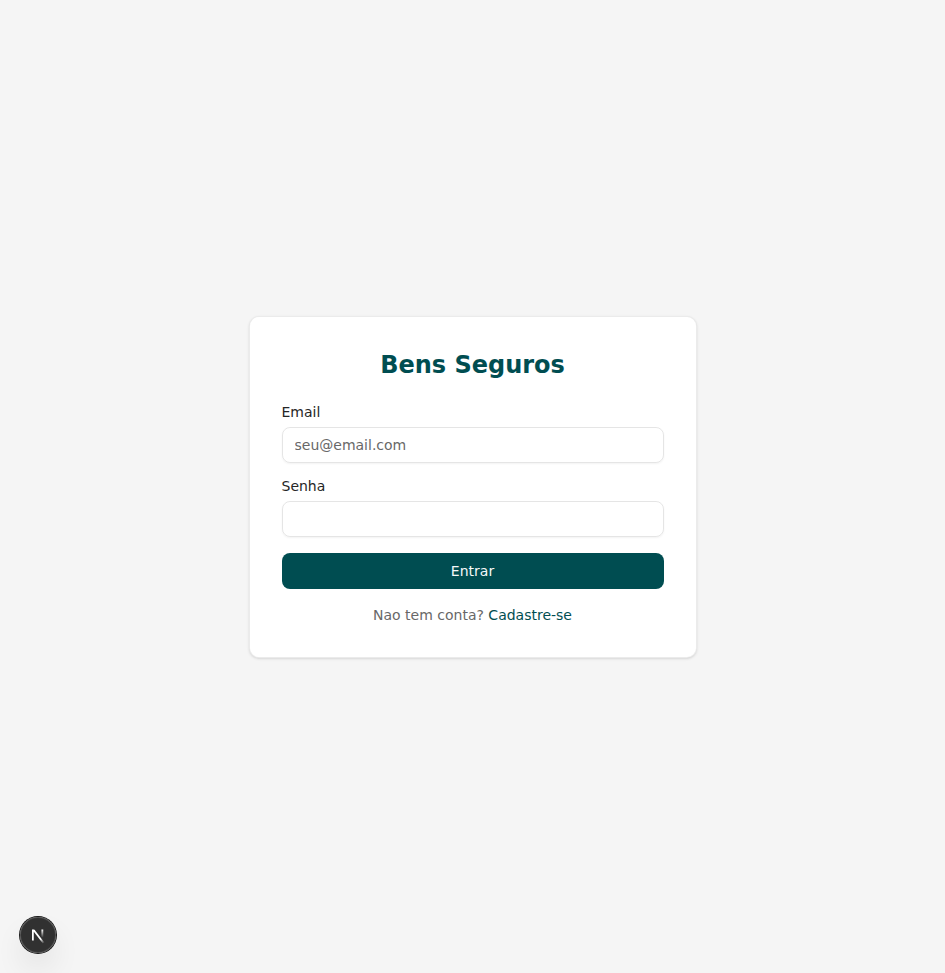
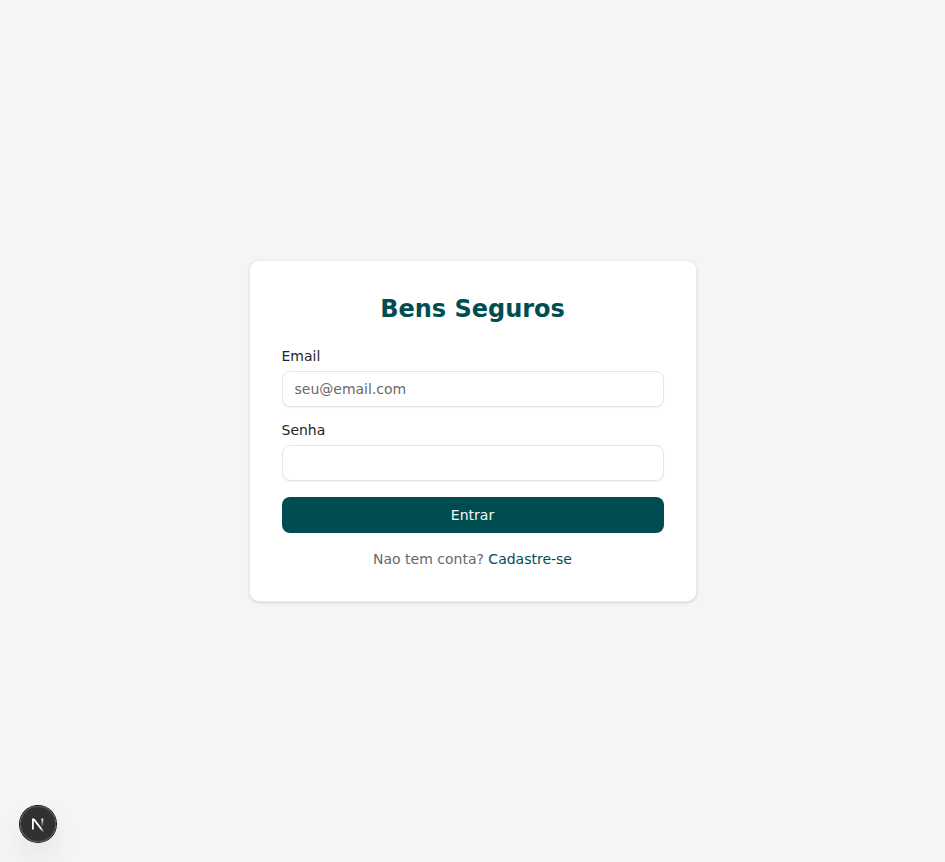
fix: QA bugs - CORS methods, Zod empty date, DELETE content-type
- Add PUT/DELETE to CORS allowed methods
- Handle empty string birthDate in Zod schema (coerce fails on '')
- Remove Content-Type header from DELETE requests (Fastify rejects empty JSON body)
- Add --tsconfig flag to server dev script for tsx decorator support
- Use manual DI factory registration (tsx/esbuild compatibility)
- Add root tsconfig.json with experimentalDecorators

diff --git a/apps/server/src/container-registrations.ts b/apps/server/src/container-registrations.ts
@@ -1,12 +1,59 @@
 import { container } from '@repo/core';
 import { prisma } from '@repo/db';
-import { PrismaClientRepository } from '@repo/core';
-import { PrismaProposalRepository } from '@repo/core';
-import { PrismaPolicyRepository } from '@repo/core';
+import {
+  PrismaClientRepository,
+  PrismaProposalRepository,
+  PrismaPolicyRepository,
+  CreateClient,
+  ListClients,
+  GetClient,
+  UpdateClient,
+  DeleteClient,
+  CreateProposal,
+  AdvanceProposalStage,
+  RevertProposalStage,
+  MarkProposalLost,
+  ListProposals,
+  GetProposal,
+  IssuePolicy,
+  ListPolicies,
+  GetPolicy,
+  CancelPolicy,
+} from '@repo/core';
 
 export function registerDependencies() {
+  const clientRepo = new PrismaClientRepository(prisma);
+  const proposalRepo = new PrismaProposalRepository(prisma);
+  const policyRepo = new PrismaPolicyRepository(prisma);
+
   container.register('PrismaClient', { useValue: prisma });
-  container.register('ClientRepository', { useClass: PrismaClientRepository });
-  container.register('ProposalRepository', { useClass: PrismaProposalRepository });
-  container.register('PolicyRepository', { useClass: PrismaPolicyRepository });
+  container.register('ClientRepository', { useValue: clientRepo });
+  container.register('ProposalRepository', { useValue: proposalRepo });
+  container.register('PolicyRepository', { useValue: policyRepo });
+
+  container.register(CreateClient, { useFactory: () => new CreateClient(clientRepo) });
+  container.register(ListClients, { useFactory: () => new ListClients(clientRepo) });
+  container.register(GetClient, { useFactory: () => new GetClient(clientRepo) });
+  container.register(UpdateClient, { useFactory: () => new UpdateClient(clientRepo) });
+  container.register(DeleteClient, { useFactory: () => new DeleteClient(clientRepo) });
+
+  container.register(CreateProposal, { useFactory: () => new CreateProposal(proposalRepo) });
+  container.register(AdvanceProposalStage, {
+    useFactory: () => new AdvanceProposalStage(proposalRepo),
+  });
+  container.register(RevertProposalStage, {
+    useFactory: () => new RevertProposalStage(proposalRepo),
+  });
+  container.register(MarkProposalLost, {
+    useFactory: () => new MarkProposalLost(proposalRepo),
+  });
+  container.register(ListProposals, { useFactory: () => new ListProposals(proposalRepo) });
+  container.register(GetProposal, { useFactory: () => new GetProposal(proposalRepo) });
+
+  container.register(IssuePolicy, {
+    useFactory: () => new IssuePolicy(policyRepo, proposalRepo),
+  });
+  container.register(ListPolicies, { useFactory: () => new ListPolicies(policyRepo) });
+  container.register(GetPolicy, { useFactory: () => new GetPolicy(policyRepo) });
+  container.register(CancelPolicy, { useFactory: () => new CancelPolicy(policyRepo) });
 }

diff --git a/apps/server/src/schemas/client.schemas.ts b/apps/server/src/schemas/client.schemas.ts
@@ -1,13 +1,21 @@
 import { z } from 'zod';
 
+const emptyToUndefined = z.literal('').transform(() => undefined);
+
+const optionalDate = z.union([emptyToUndefined, z.coerce.date()]).optional();
+
+const optionalEmail = z.union([emptyToUndefined, z.string().email()]).optional();
+
+const optionalString = z.union([emptyToUndefined, z.string()]).optional();
+
 export const createClientBodySchema = z.object({
   name: z.string().min(2),
   document: z.string().min(11).max(14),
   type: z.enum(['LEAD', 'CLIENT', 'FORMER_CLIENT']).optional(),
-  email: z.string().email().optional(),
-  phone: z.string().optional(),
-  birthDate: z.coerce.date().optional(),
-  profession: z.string().optional(),
+  email: optionalEmail,
+  phone: optionalString,
+  birthDate: optionalDate,
+  profession: optionalString,
   maritalStatus: z.enum(['SINGLE', 'MARRIED', 'DIVORCED', 'WIDOWED', 'OTHER']).optional(),
   address: z.record(z.string()).optional(),
   tags: z.array(z.string()).optional(),

diff --git a/apps/web/src/lib/api-client.ts b/apps/web/src/lib/api-client.ts
@@ -36,13 +36,17 @@ async function request<TData>(
   path: string,
   options: RequestInit = {},
 ): Promise<ApiResponse<TData>> {
+  const headers: Record<string, string> = {
+    ...Object.fromEntries(Object.entries(options.headers ?? {}).filter(([, v]) => v !== '')),
+  };
+  if (options.body) {
+    headers['Content-Type'] = 'application/json';
+  }
+
   const res = await fetch(`${API_URL}${path}`, {
     credentials: 'include',
-    headers: {
-      'Content-Type': 'application/json',
-      ...options.headers,
-    },
     ...options,
+    headers,
   });
 
   if (res.status === 204) {

diff --git a/apps/server/src/app.ts b/apps/server/src/app.ts
@@ -29,6 +29,7 @@ export async function buildApp() {
   await app.register(cors, {
     origin: process.env.FRONTEND_URL ?? 'http://localhost:3000',
     credentials: true,
+    methods: ['GET', 'POST', 'PUT', 'DELETE', 'OPTIONS'],
   });
 
   await app.register(helmet);
